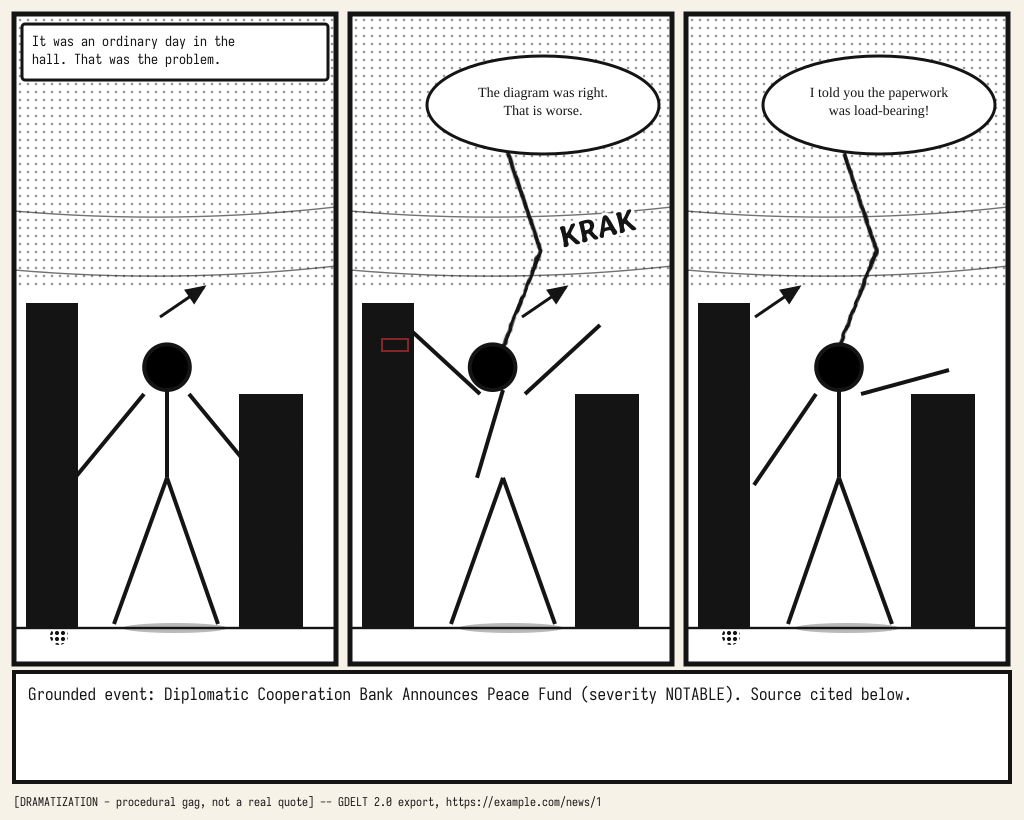
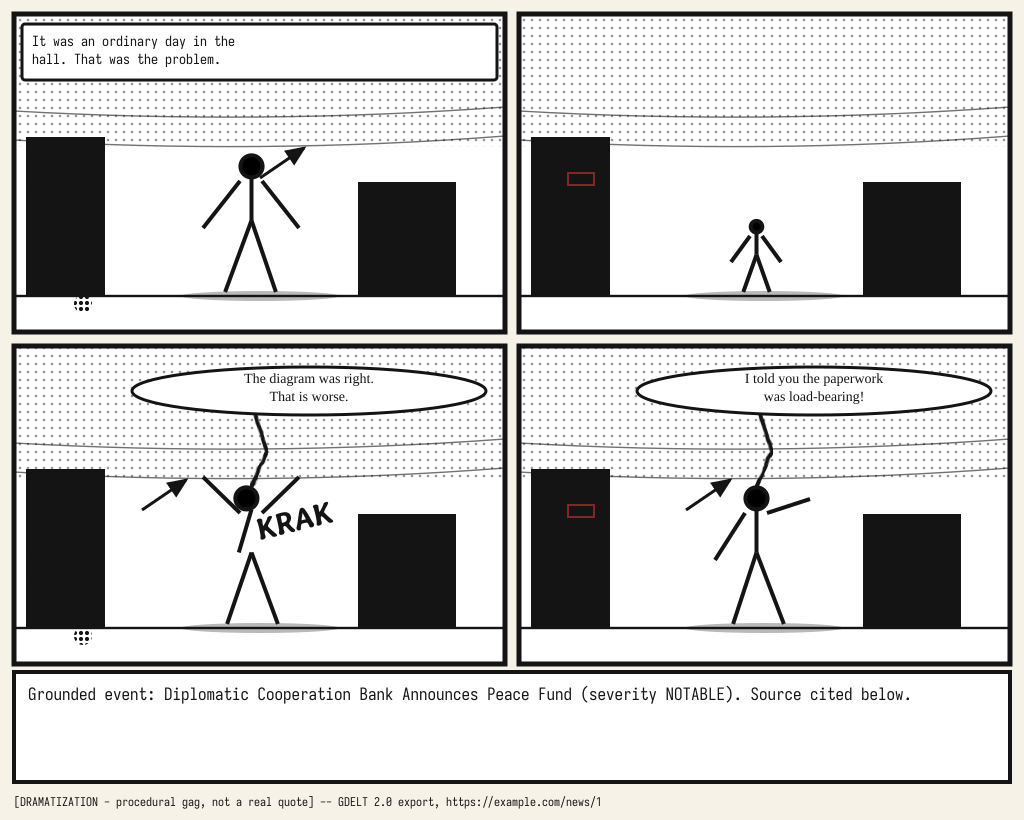
feat: manga wireframe density and tone-sequencing from collection study

Changed region(s): [[0.0, 0.0, 1.0, 0.8232], [0.125, 0.7622, 0.1875, 0.7927], [0.1875, 0.1524, 0.2188, 0.1829]]

diff --git a/automation/jobs/manga-draft.py b/automation/jobs/manga-draft.py
@@ -82,12 +82,34 @@ COMPONENT_BUDGET = 3
 # component prompt inherits this string verbatim. Descriptor language
 # only, never artist names (test-enforced; the study references live in
 # docs/design/manga-style-research.md as reading notes, not prompt data).
-STYLE_CORE = ("monochrome ink illustration, bold confident ink linework, "
-              "dense cross-hatching on shadow and towering dark structures, "
-              "screentone shading, vast negative space, high contrast "
-              "black and white, muted desaturated accents, moss and bone "
-              "motifs, cathedral-scale brutalist machine architecture, "
-              "clean white ground, no text in image")
+# 2026-09-12 collection study (docs/research/2026-09-12-manga-collection-
+# study.md): masters run 0.55-0.96 white ground on story pages and the
+# sparse-ink economy (ink 0.08-0.20, white 0.66-0.71) out-says dense ink,
+# so white ground + negative space now LEAD the descriptor order (they
+# were buried mid-string and the output under-used them).
+STYLE_CORE = ("monochrome ink illustration, clean white ground, "
+              "vast negative space, at least half the frame left empty, "
+              "bold confident ink linework, high contrast black and "
+              "white, screentone shading, dense cross-hatching on "
+              "shadow and towering dark structures, muted desaturated "
+              "accents, moss and bone motifs, cathedral-scale "
+              "brutalist machine architecture, no text in image")
+
+# Tone sequencing (2026-09-12 collection study, bank deltas 3+4): the
+# wit is the tonal CONTRAST -- grim setup pages run the dense mid-gray
+# register (0.4-0.6 tone coverage in the measured grim sample), while
+# the reaction/gag pages go flat white; the adjacent tone delta IS the
+# timing. Per-beat targets ride the script, the wireframe (data-tone),
+# and the component prompts.
+TONE_GRIM = ("page-wide mid-gray screentone texture, dense gray wash, "
+             "low white ground")
+TONE_FLAT = "flat white, clean white ground, vast negative space"
+
+# Density band (2026-09-12 collection study, bank delta 1): masters run
+# 4.6 panels/page average (up to 8-11 on calm pages); the old 1-3
+# default under-ran. Story beats expand to 3-5 panels per page; splash
+# beats stay 1 panel (density is a RHYTHM choice, vary it).
+DENSITY_MIN, DENSITY_MAX = 3, 5
 
 # Pose library: simple stick-figure poses keyed to beat type. Each pose
 # is a tiny SVG fragment generator (head + spine + limbs), drawn by
@@ -175,10 +197,12 @@ RECOGNITIONS = {
     ],
 }
 
-# Strip geometry (operator critique 2, items 3/5): the wireframe models a
-# 1-3 panel grid. 3 beats -> horizontal strip (setup | reaction | gag),
-# 2 beats -> vertical stack, 1 beat -> single panel. GUTTER px between
-# frames; panels are (x, y, w, h) in the same 1024x820 canvas.
+# Strip geometry (operator critique 2, items 3/5; density band updated
+# 2026-09-12 per the collection study): the wireframe models a 1-5
+# panel grid. 3 beats -> horizontal strip (setup | reaction | gag),
+# 2 beats -> vertical stack, 1 beat -> single panel, 4 -> 2x2 grid,
+# 5 -> 3-over-2 grid. GUTTER px between frames; panels are (x, y, w, h)
+# in the same 1024x820 canvas.
 GUTTER = 14
 
 
@@ -193,9 +217,41 @@ def panel_grid(n):
         ph = (ART_H - GUTTER) // 2
         return {"orientation": "vertical", "panels":
                 [(14, 14, 996, ph), (14, 14 + ph + GUTTER, 996, ph)]}
+    if n == 4:
+        pw = (996 - GUTTER) // 2
+        ph = (ART_H - GUTTER) // 2
+        return {"orientation": "grid-2x2", "panels":
+                [(14, 14, pw, ph), (14 + pw + GUTTER, 14, pw, ph),
+                 (14, 14 + ph + GUTTER, pw, ph),
+                 (14 + pw + GUTTER, 14 + ph + GUTTER, pw, ph)]}
+    if n >= 5:
+        pw3 = (996 - 2 * GUTTER) // 3
+        pw2 = (996 - GUTTER) // 2
+        ph = (ART_H - GUTTER) // 2
+        return {"orientation": "grid-3-2", "panels":
+                [(14 + i * (pw3 + GUTTER), 14, pw3, ph) for i in range(3)]
+                + [(14 + j * (pw2 + GUTTER), 14 + ph + GUTTER, pw2, ph)
+                   for j in range(2)]}
     pw = (996 - 2 * GUTTER) // 3
     return {"orientation": "horizontal", "panels":
             [(14 + i * (pw + GUTTER), 14, pw, ART_H) for i in range(3)]}
+
+
+def beat_panels(script):
+    """The density rule (2026-09-12 collection study, bank delta 1):
+    expand script beats to panels for the 3-5 band. Each beat defaults
+    to 1 panel; a content-heavy beat (its visual note implies two
+    beats' worth of action, marked "panels": 2 by the script pass)
+    splits across 2; a splash beat (splash flag) always stays 1. A
+    lone beat is a splash by definition. Capped at the band's top."""
+    beats = script["beats"]
+    if len(beats) < 2:
+        return [(0, 0)]
+    panels = []
+    for bi, b in enumerate(beats):
+        for sub in range(1 if b.get("splash") else b.get("panels", 1)):
+            panels.append((bi, sub))
+    return panels[:DENSITY_MAX]
 
 
 def sfx_anchor(panel, focal, seed):
@@ -290,7 +346,7 @@ def _panel_scene(px, py, pw, ph, seed, i):
     return "".join(parts)
 
 
-def _panel_text_layer(plan, b, rect, seed, i):
+def _panel_text_layer(plan, b, rect, seed, i, beat_index=None):
     """Per-panel text layer: actor slot (pose library), focal-action
     mark, setup caption OR ellipse bubble with a curved bezier tail to
     the actor's head, the beat's register line, and -- on the reaction
@@ -304,7 +360,8 @@ def _panel_text_layer(plan, b, rect, seed, i):
     focal = (px + pw * (0.35 + ((seed + i) % 5) * 0.08),
              py + ph * 0.42)
     parts = ['<g data-beat="%d" data-kind="%s" data-pose="%s">'
-             % (i, b["kind"], b["pose"]),
+             % (i if beat_index is None else beat_index,
+                b["kind"], b["pose"]),
              '<path data-focal="%s" d="M%.0f %.0f L%.0f %.0f" '
              'stroke="#141414" stroke-width="3" fill="none" '
              'marker-end="url(#focalhead)"/>'
@@ -380,16 +437,22 @@ def script_for(plan):
         "beats": [
             {"kind": "setup", "cast": [cameo], "pose": "standing-deadpan",
              "register": "narration", "line": narration,
+             # grim/deadpan setup: mid-tone texture target; the visual
+             # note carries two eye-hits (caption, then the structure),
+             # so the density rule splits it across 2 panels.
+             "splash": False, "panels": 2, "tone": TONE_GRIM,
              "camera": "wide, figure small against the machinery",
              "eye": "narration caption first, then the tilted structure",
              "visual": plan["scene"] + ". " + narration},
             {"kind": "reaction", "cast": [cameo], "pose": "reacting",
              "register": "recognition", "line": recognition,
+             "splash": False, "panels": 1, "tone": TONE_FLAT,
              "camera": "medium, face in frame, star-highlight eyes",
              "eye": "the face, then the focal action behind it",
              "visual": "close on %s reacting; %s" % (cameo, plan["sfx"])},
             {"kind": "gag", "cast": [cameo], "pose": "pointing",
              "register": "punch", "line": plan["dialogue"],
+             "splash": False, "panels": 1, "tone": TONE_FLAT,
              "camera": "medium-wide, diagonal depth to the focal action",
              "eye": "the dialogue bubble, then the aftermath",
              "visual": plan["dialogue"]},
@@ -452,24 +515,33 @@ def wireframe_svg(plan, script, width=1024, height=820):
     and give assemble_svg its injection points."""
     seed = plan["seed"]
     beats = script["beats"]
-    grid = panel_grid(len(beats))
+    expansion = beat_panels(script)
+    grid = panel_grid(len(expansion))
     parts = ['<svg xmlns="http://www.w3.org/2000/svg" width="%d" '
              'height="%d" viewBox="0 0 %d %d">' % (width, height,
                                                    width, height),
              WF_DEFS,
              '<rect width="%d" height="%d" fill="#f7f2e7"/>' % (width,
                                                                 height)]
-    for i, (b, rect) in enumerate(zip(beats, grid["panels"])):
-        parts.append('<g data-panel="%d" data-orientation="%s">'
-                     % (i, grid["orientation"]))
+    for i, (bi, sub) in enumerate(expansion):
+        b = beats[bi]
+        rect = grid["panels"][i]
+        # wide establishing shot first when a beat splits across panels
+        pose = ("small-in-frame"
+                if sub and b["pose"] != "small-in-frame" else b["pose"])
+        parts.append('<g data-panel="%d" data-orientation="%s" '
+                     'data-tone="%s">'
+                     % (i, grid["orientation"], b["tone"]))
         gy = rect[1] + rect[3] - 40
-        h = rect[3] * (0.5 if b["pose"] != "small-in-frame" else 0.26)
+        h = rect[3] * (0.5 if pose != "small-in-frame" else 0.26)
         ax = rect[0] + rect[2] / 2.0 + (seed % 21) - 10
         parts.append('<g data-panelimg="%d">%s%s</g>'
                      % (i, _panel_scene(rect[0], rect[1], rect[2],
                                         rect[3], seed, i),
-                        _stick(ax, gy, h, b["pose"], seed + i)))
-        parts.append(_panel_text_layer(plan, b, rect, seed, i))
+                        _stick(ax, gy, h, pose, seed + i)))
+        if not sub:  # the beat's text layer rides its first panel
+            parts.append(_panel_text_layer(plan, b, rect, seed, i,
+                                           beat_index=bi))
         # frame drawn over the scene so art never crosses the border
         parts.append('<rect x="%d" y="%d" width="%d" height="%d" '
                      'fill="none" stroke="#141414" stroke-width="5"/>'
@@ -504,14 +576,21 @@ def component_prompts(plan, script, cast=None):
     sheet = script.get("cast_sheet", {})
     actor_desc = sheet.get("appearance", script["beats"][0]["cast"][0])
     actor_seed = sheet.get("seed", seed)
+    # per-panel tone targets inherited into the prompts (2026-09-12
+    # collection study): the grim setup panel carries the mid-gray
+    # texture register, the gag panel the flat-white ground.
+    tones = {b["kind"]: b.get("tone", TONE_FLAT)
+             for b in script["beats"]}
     prompts = [
         {"region": "environment", "size": "768x512", "seed": seed,
-         "prompt": "%s environment plate, empty of figures, %s"
-                   % (plan["scene"], STYLE_CORE)},
+         "prompt": "%s environment plate, empty of figures, %s, %s"
+                   % (plan["scene"],
+                      tones.get("setup", TONE_GRIM), STYLE_CORE)},
         {"region": "actor:%s" % script["beats"][0]["cast"][0],
          "size": "512x768", "seed": actor_seed,
          "prompt": "single character, full figure, standing on a plain "
-                   "white ground, %s, %s" % (actor_desc, STYLE_CORE)},
+                   "white ground, %s, %s, %s"
+                   % (actor_desc, tones.get("gag", TONE_FLAT), STYLE_CORE)},
     ]
     return prompts[:COMPONENT_BUDGET]
 

diff --git a/automation/tests/test-manga-draft.py b/automation/tests/test-manga-draft.py
@@ -237,9 +237,12 @@ class TestStrip(unittest.TestCase):
 
     def test_wireframe_one_frame_per_beat(self):
         svg = md.wireframe_svg(self.plan, self.script)
+        # density rule (2026-09-12 collection study): 3 story beats
+        # plan 4 panels -- the content-heavy setup beat splits in two;
+        # each beat still owns exactly one data-beat marker.
         self.assertEqual(svg.count("<g data-beat="), 3)
-        self.assertEqual(svg.count("<g data-panel="), 3)
-        self.assertEqual(svg.count("<g data-panelimg="), 3)
+        self.assertEqual(svg.count("<g data-panel="), 4)
+        self.assertEqual(svg.count("<g data-panelimg="), 4)
 
     def test_wireframe_single_beat_fallback(self):
         one = {"narration": self.script["narration"],
@@ -304,15 +307,18 @@ class TestSfxPlacement(unittest.TestCase):
 
     def test_wireframe_sfx_lands_in_beat_panel(self):
         plan = md.plan_for(md.parse_item(ITEM_TEXT))
-        svg = md.wireframe_svg(plan, md.script_for(plan))
+        script = md.script_for(plan)
+        svg = md.wireframe_svg(plan, script)
         m = re.search(r'<text[^>]*data-sfx[^>]*x="([\d.]+)" y="([\d.]+)"',
                       svg)
         self.assertIsNotNone(m)
         x, y = float(m.group(1)), float(m.group(2))
         self.assertNotEqual((x, y), (90, 545))  # not the fixed legacy spot
-        inside = [i for i, r in enumerate(md.panel_grid(3)["panels"])
+        grid = md.panel_grid(len(md.beat_panels(script)))
+        inside = [i for i, r in enumerate(grid["panels"])
                   if r[0] <= x <= r[0] + r[2] and r[1] <= y <= r[1] + r[3]]
-        self.assertEqual(inside, [1])  # the reaction beat's panel
+        # panels: setup-wide(0) setup-close(1) reaction(2) gag(3)
+        self.assertEqual(inside, [2])  # the reaction beat's panel
 
 
 class TestStyleCore(unittest.TestCase):
@@ -363,6 +369,88 @@ class TestCast(unittest.TestCase):
             self.assertIn(cameo, cast)
             self.assertIn("appearance", cast[cameo])
             self.assertIn("seed", cast[cameo])
+
+
+class TestDensity(unittest.TestCase):
+    """Bank delta 1 (2026-09-12 collection study): the wireframe plans
+    3-5 panels per page on story beats (masters ran 4.6 avg; our 1-3
+    under-ran), 1 panel for splash beats."""
+
+    def setUp(self):
+        self.plan = md.plan_for(md.parse_item(ITEM_TEXT))
+        self.script = md.script_for(self.plan)
+
+    def test_story_beats_land_in_density_band(self):
+        n = len(md.beat_panels(self.script))
+        self.assertGreaterEqual(n, 3)
+        self.assertLessEqual(n, 5)
+
+    def test_content_heavy_beat_splits_across_panels(self):
+        """The setup beat's visual note lists two eye-hits (caption,
+        then the tilted structure) -> the wireframe splits it in two."""
+        self.assertEqual(self.script["beats"][0]["panels"], 2)
+        self.assertEqual(len(md.beat_panels(self.script)), 4)
+
+    def test_splash_beat_stays_single_panel(self):
+        script = dict(self.script)
+        script["beats"] = [dict(b, splash=True)
+                           for b in self.script["beats"]]
+        self.assertEqual(len(md.beat_panels(script)), 3)
+
+    def test_single_beat_script_stays_single_panel(self):
+        one = {"narration": self.script["narration"],
+               "beats": self.script["beats"][:1],
+               "cast_sheet": self.script["cast_sheet"]}
+        self.assertEqual(len(md.beat_panels(one)), 1)
+
+    def test_panel_grid_supports_density(self):
+        for n in (4, 5):
+            grid = md.panel_grid(n)
+            self.assertEqual(len(grid["panels"]), n)
+            for x, y, w, h in grid["panels"]:
+                self.assertGreaterEqual(x, 14)
+                self.assertLessEqual(x + w, 1010)
+                self.assertLessEqual(y + h, 664)  # above the band
+
+
+class TestToneSequencing(unittest.TestCase):
+    """Bank deltas 3+4 (2026-09-12 collection study): the wit is the
+    tonal CONTRAST -- the grim setup beat plans mid-tone texture, the
+    gag/reaction beats plan flat white; the adjacent tone delta is the
+    timing. Tone targets ride the script, the wireframe (data-tone),
+    and the component prompts."""
+
+    def setUp(self):
+        self.plan = md.plan_for(md.parse_item(ITEM_TEXT))
+        self.script = md.script_for(self.plan)
+
+    def test_beats_carry_tone_targets(self):
+        for b in self.script["beats"]:
+            self.assertIn("tone", b)
+        self.assertEqual(self.script["beats"][0]["tone"], md.TONE_GRIM)
+        self.assertEqual(self.script["beats"][1]["tone"], md.TONE_FLAT)
+        self.assertEqual(self.script["beats"][2]["tone"], md.TONE_FLAT)
+
+    def test_adjacent_tone_delta_setup_vs_gag(self):
+        """The check the study proposes: the planned sequence
+        alternates tone register between setup and gag panels."""
+        tones = [b["tone"] for b in self.script["beats"]]
+        self.assertNotEqual(tones[0], tones[2])
+
+    def test_wireframe_annotates_tone_per_panel(self):
+        svg = md.wireframe_svg(self.plan, self.script)
+        self.assertEqual(svg.count("data-tone="), 4)
+        self.assertIn('data-tone="%s"' % md.TONE_GRIM, svg)
+        self.assertIn('data-tone="%s"' % md.TONE_FLAT, svg)
+
+    def test_component_prompts_inherit_tone_targets(self):
+        prompts = md.component_prompts(self.plan, self.script)
+        by_region = {p["region"]: p for p in prompts}
+        env = by_region["environment"]["prompt"]
+        actor = by_region["actor:%s"
+                          % self.script["beats"][0]["cast"][0]]["prompt"]
+        self.assertIn("mid-gray", env)          # grim panel register
+        self.assertIn("clean white ground", actor)  # gag flat-white
 
 
 class TestAssemble(unittest.TestCase):
